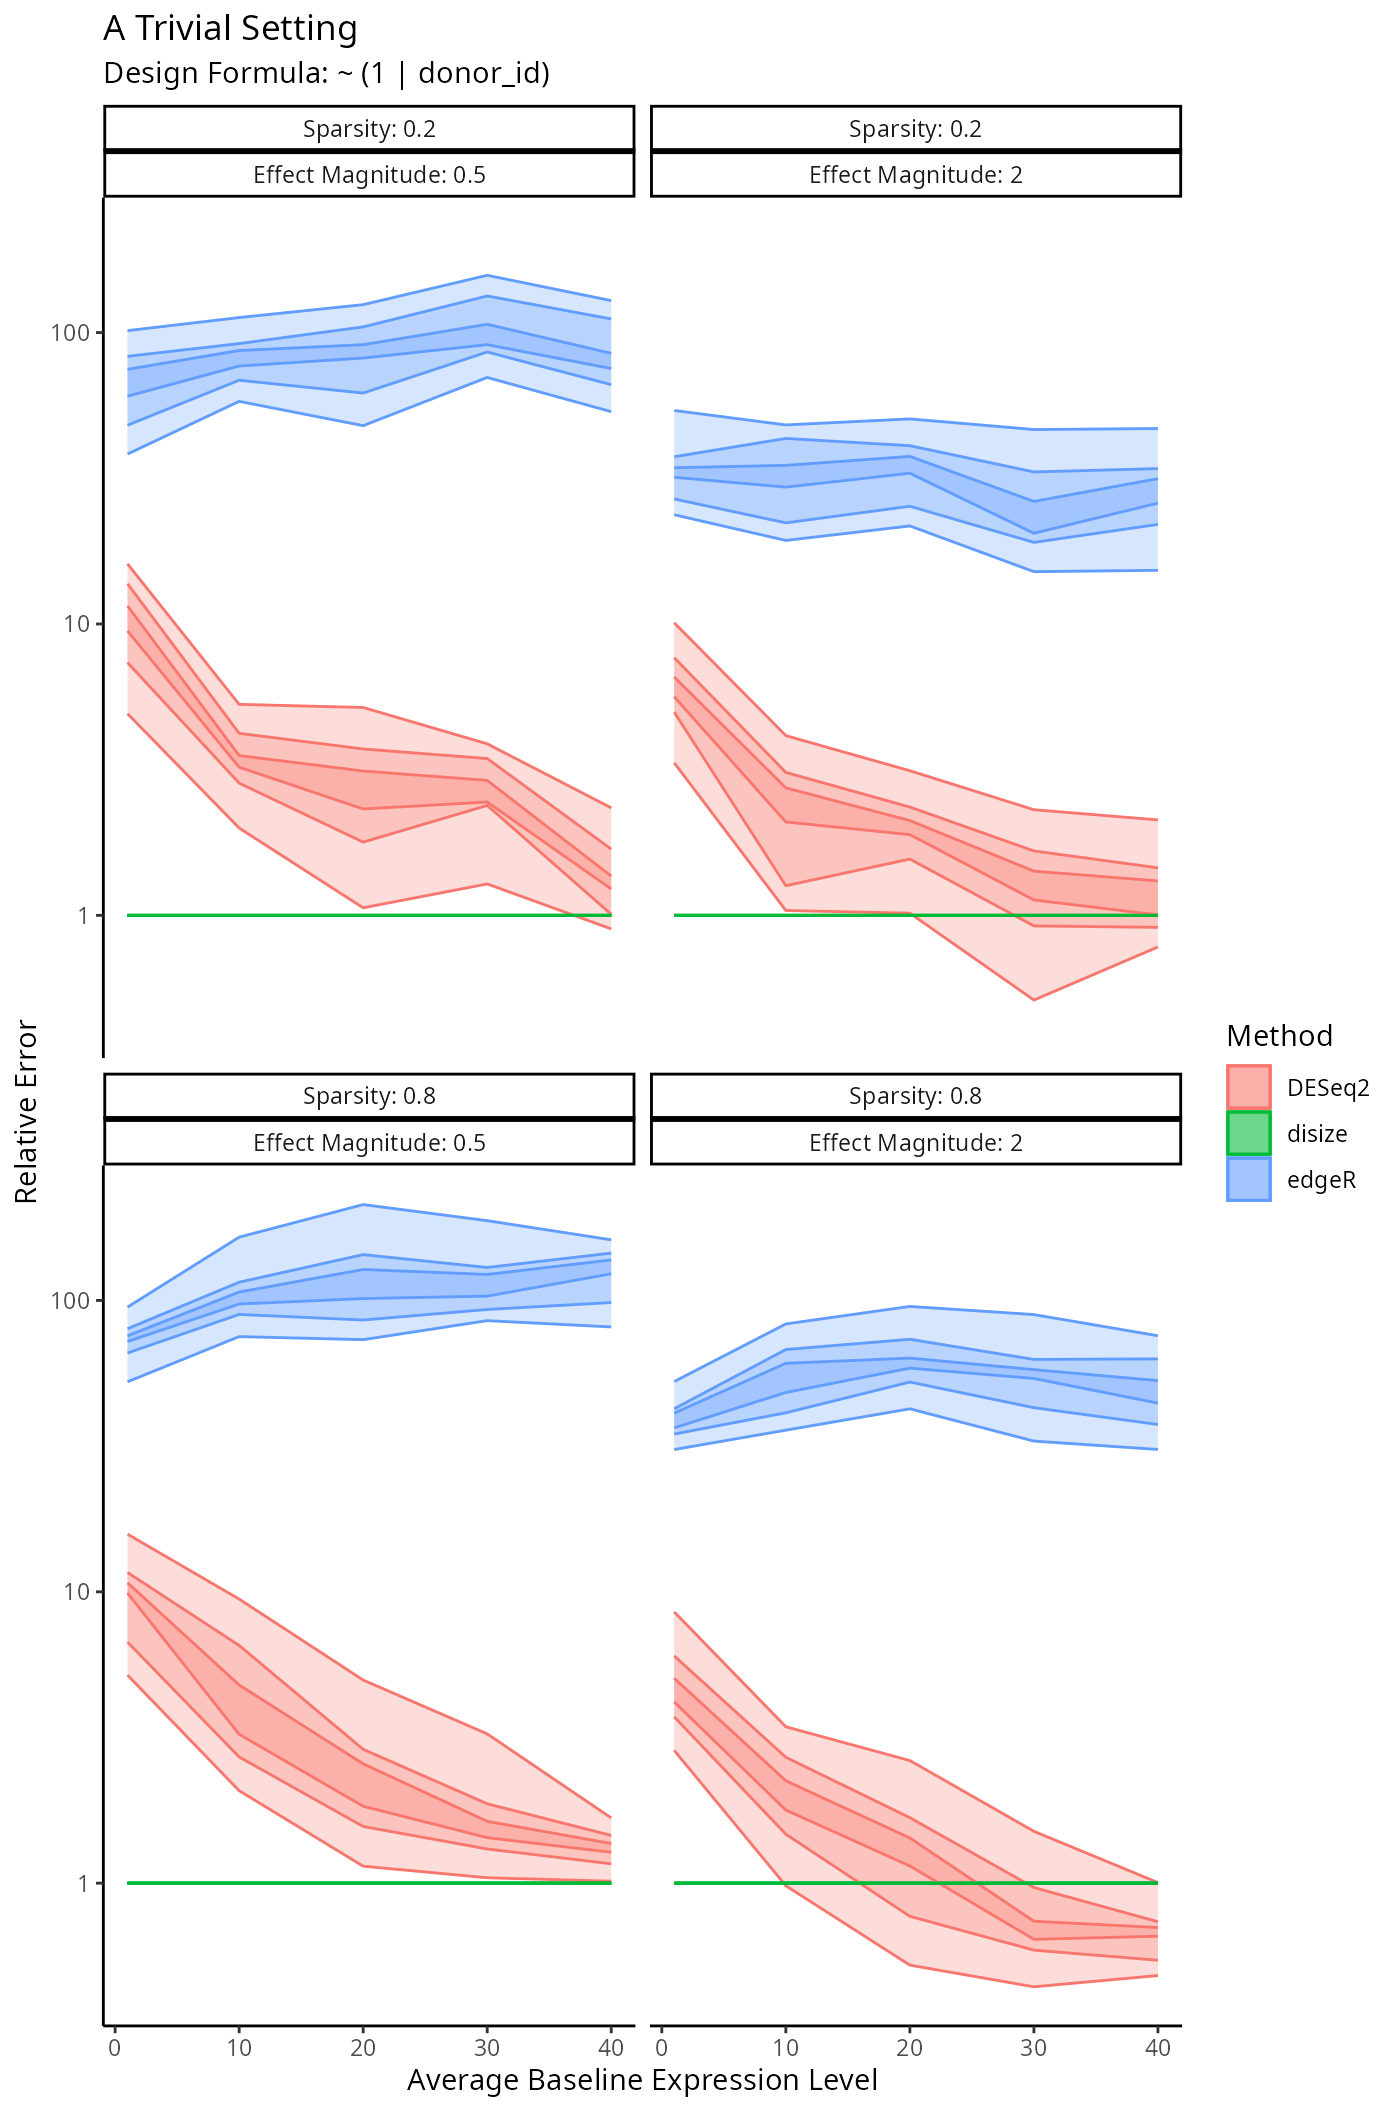
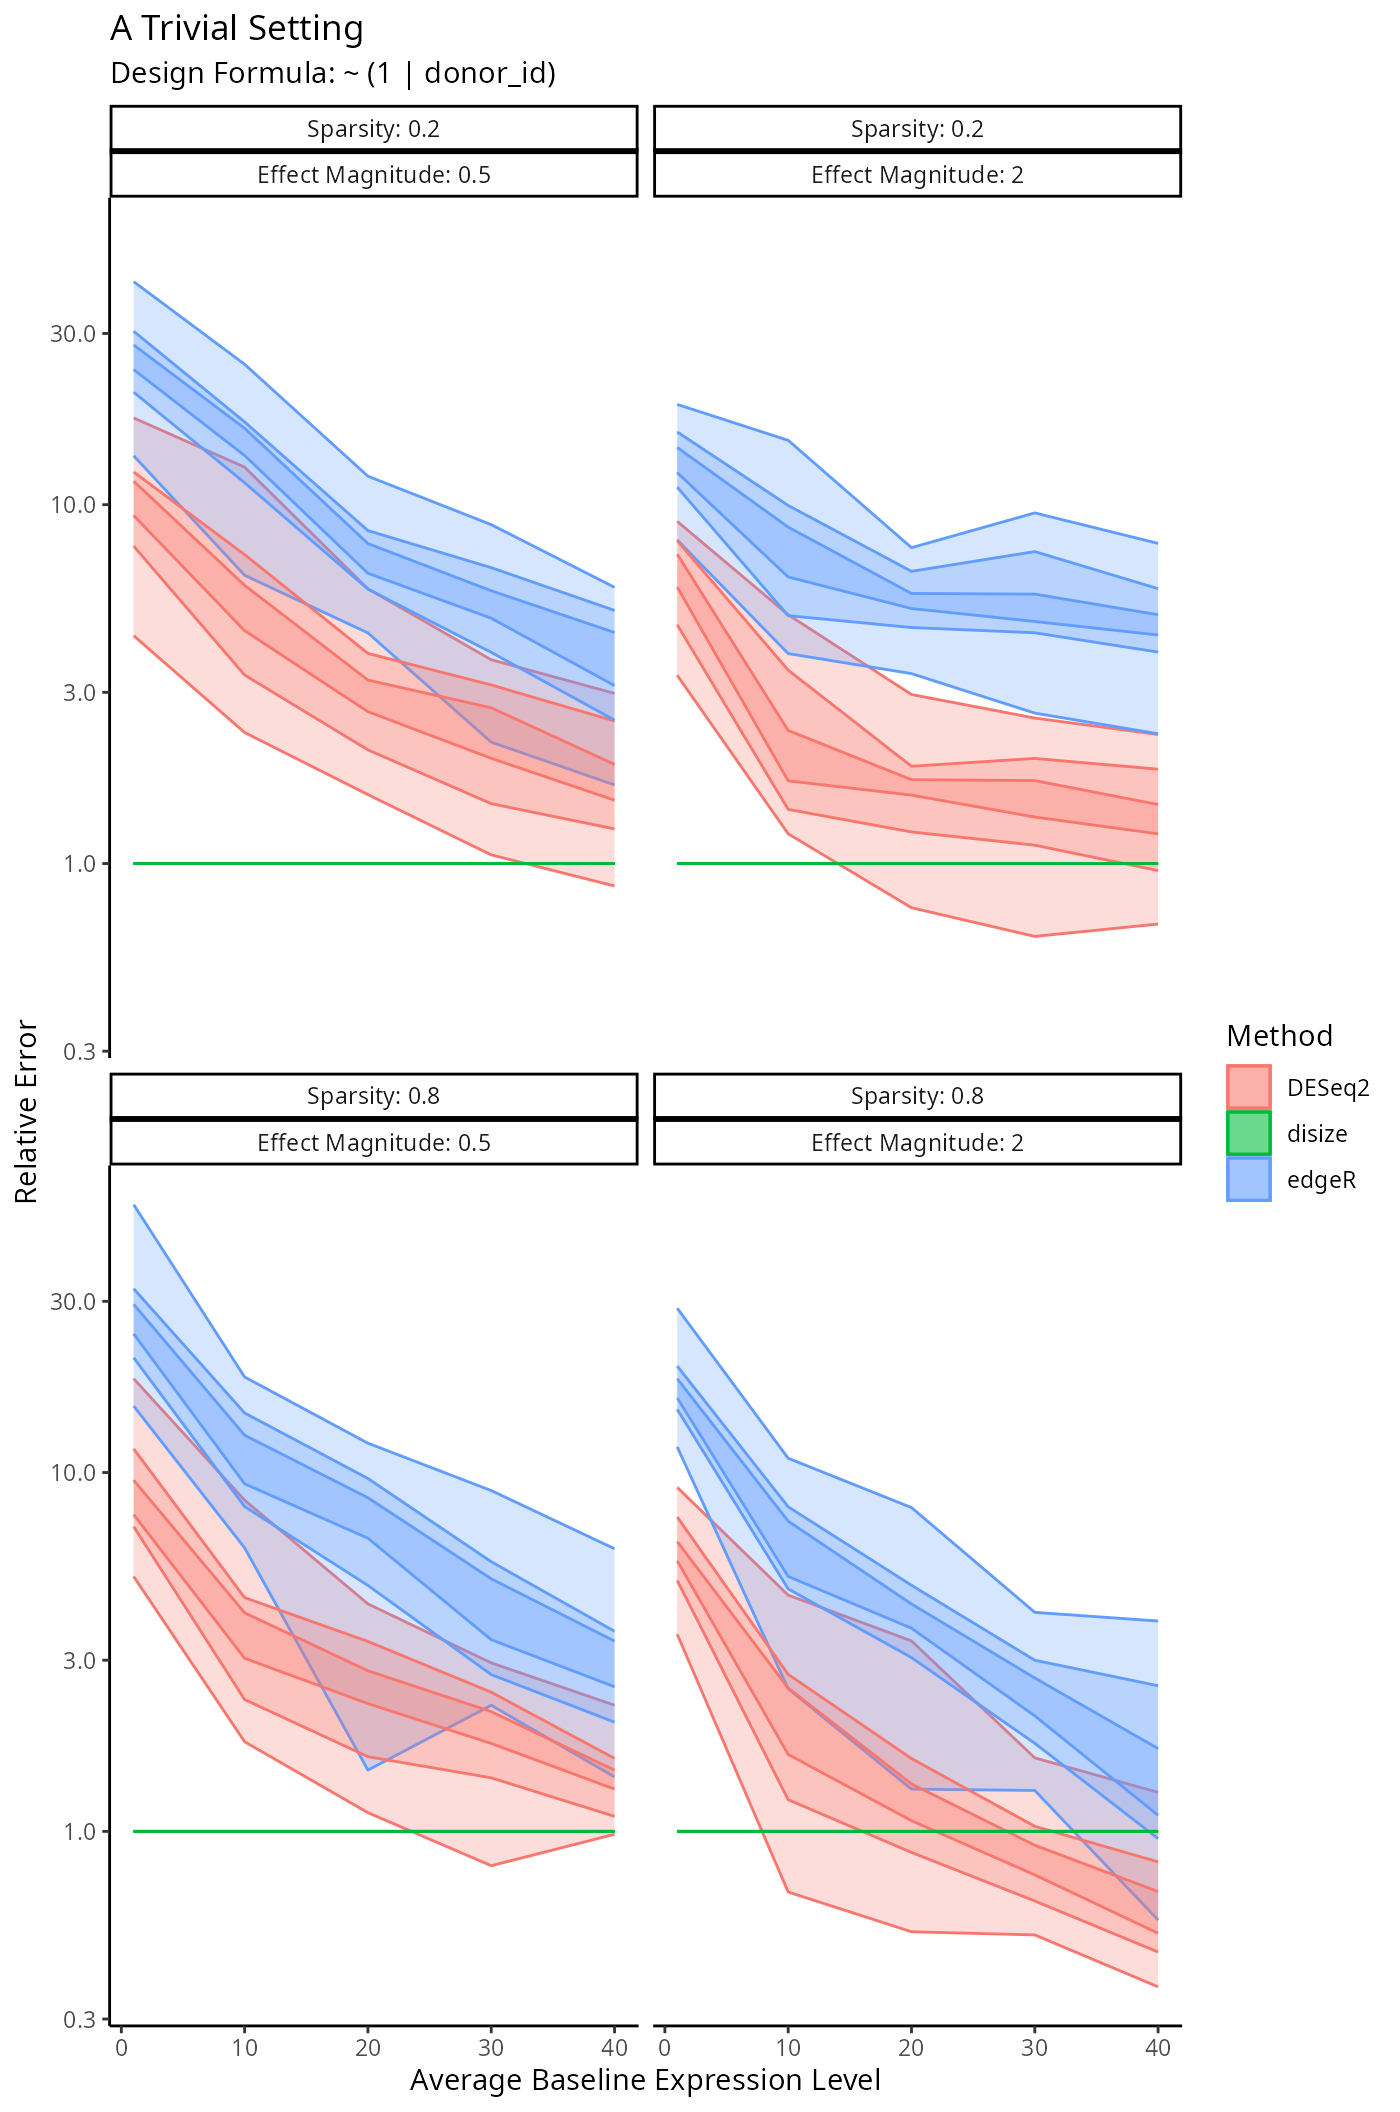
Built site for disize@0.5.0:

diff --git a/articles/disize.html b/articles/disize.html
@@ -202,11 +202,11 @@ factors:</p>
 <span><span class="op">)</span></span>
 <span><span class="co">#&gt; Formatting data...</span></span>
 <span><span class="co">#&gt; Optimizing over initialization...</span></span>
-<span><span class="co">#&gt; Estimating size factors... (Max ETA: ~94.7s)</span></span>
+<span><span class="co">#&gt; Estimating size factors... (Max ETA: ~93.6s)</span></span>
 <span><span class="co">#&gt; Warning in disize::disize(design_formula, counts, metadata, batch_name =</span></span>
 <span><span class="co">#&gt; "sample_id", : Model did not converge, retrying fit with different</span></span>
 <span><span class="co">#&gt; initialization... (if you see this multiple times try increasing 'n_iters')</span></span>
-<span><span class="co">#&gt; Finised in 12.7s!</span></span>
+<span><span class="co">#&gt; Finised in 12.6s!</span></span>
 <span><span class="fu"><a href="https://rdrr.io/r/base/print.html" class="external-link">print</a></span><span class="op">(</span><span class="va">size_factors_1</span><span class="op">)</span></span>
 <span><span class="co">#&gt;       Ctrl1       Ctrl2       Ctrl3        LPS1        LPS2        LPS3 </span></span>
 <span><span class="co">#&gt;  0.08671084  0.01092470 -0.07757363  0.08014565  0.00838777  0.09461482 </span></span>
@@ -229,8 +229,8 @@ a larger <code>n_feats</code>:</p>
 <span><span class="op">)</span></span>
 <span><span class="co">#&gt; Formatting data...</span></span>
 <span><span class="co">#&gt; Optimizing over initialization...</span></span>
-<span><span class="co">#&gt; Estimating size factors... (Max ETA: ~132.4s)</span></span>
-<span><span class="co">#&gt; Finised in 21.8s!</span></span>
+<span><span class="co">#&gt; Estimating size factors... (Max ETA: ~129.3s)</span></span>
+<span><span class="co">#&gt; Finised in 22.9s!</span></span>
 <span><span class="fu"><a href="https://rdrr.io/r/base/print.html" class="external-link">print</a></span><span class="op">(</span><span class="va">size_factors_2</span><span class="op">)</span></span>
 <span><span class="co">#&gt;        Ctrl1        Ctrl2        Ctrl3         LPS1         LPS2         LPS3 </span></span>
 <span><span class="co">#&gt;  0.094264803  0.013007556 -0.070802495  0.069177490 -0.005186325  0.081820682 </span></span>

diff --git a/articles/comparing-defs.html b/articles/comparing-defs.html
@@ -173,7 +173,7 @@ for both batch definitions:</p>
 <span><span class="op">)</span></span>
 <span><span class="co">#&gt; Formatting data...</span></span>
 <span><span class="co">#&gt; Optimizing over initialization...</span></span>
-<span><span class="co">#&gt; Estimating size factors... (Max ETA: ~48.9s)</span></span>
+<span><span class="co">#&gt; Estimating size factors... (Max ETA: ~47.8s)</span></span>
 <span><span class="co">#&gt; Finised in 10.8s!</span></span>
 <span></span>
 <span><span class="va">size_factors_2</span> <span class="op">&lt;-</span> <span class="fu">disize</span><span class="fu">::</span><span class="fu"><a href="../reference/disize.html">disize</a></span><span class="op">(</span></span>
@@ -186,8 +186,8 @@ for both batch definitions:</p>
 <span><span class="op">)</span></span>
 <span><span class="co">#&gt; Formatting data...</span></span>
 <span><span class="co">#&gt; Optimizing over initialization...</span></span>
-<span><span class="co">#&gt; Estimating size factors... (Max ETA: ~48.3s)</span></span>
-<span><span class="co">#&gt; Finised in 19.5s!</span></span></code></pre></div>
+<span><span class="co">#&gt; Estimating size factors... (Max ETA: ~46.1s)</span></span>
+<span><span class="co">#&gt; Finised in 19.7s!</span></span></code></pre></div>
 </div>
 <div class="section level2">
 <h2 id="comparing-definitions">Comparing definitions<a class="anchor" aria-label="anchor" href="#comparing-definitions"></a>